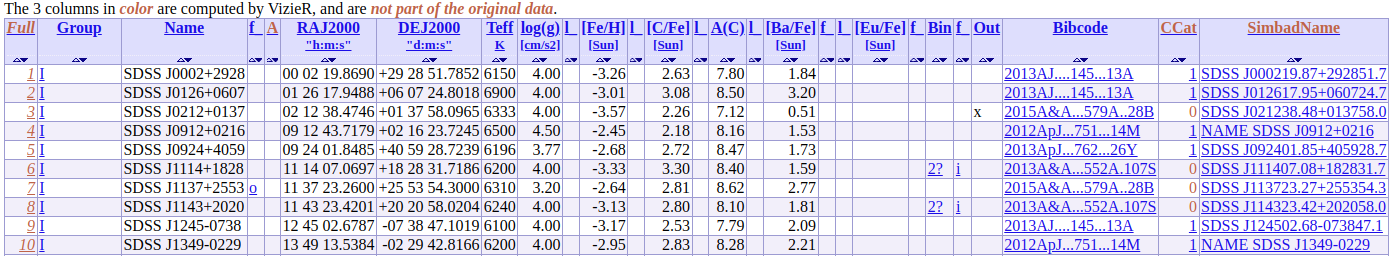
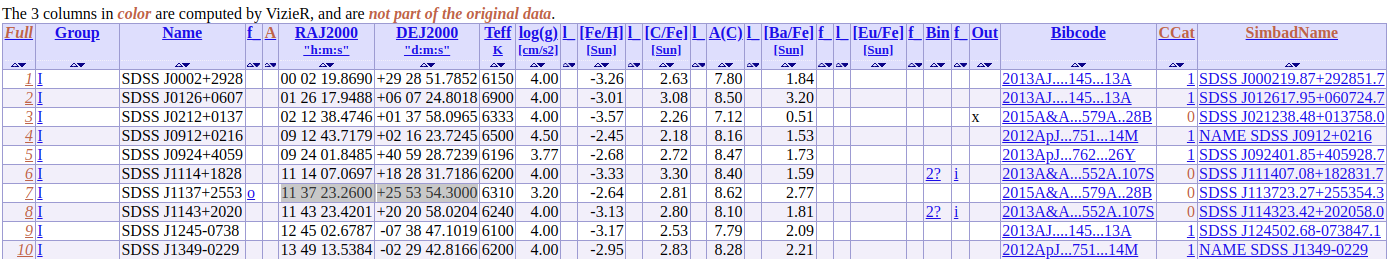
Highlight misprints in coordinates

diff --git a/episodes/section_data_curation.md b/episodes/section_data_curation.md
@@ -133,7 +133,7 @@ Here is an example of truncated SDSS names... Impossible to retrieve except by c
 
 <!-- Link to VizieR: J/ApJ/833/20  // https://vizier.cds.unistra.fr/viz-bin/VizieR?-source=J/ApJ/833/20 // table 1 -->
 
-So the SimbadName has been added after the process for SIMBAD where misprints on coordinates have been detected (identified by the column *f_Name* set to *o* below, for example for *Name = SDSS J1137+2553*). 
+So the SimbadName has been added after the process for SIMBAD where misprints on coordinates have been detected (identified by the column *f_Name* set to *o* below for *Name = SDSS J1137+2553*, and highlighted in both figures Before/After). 
 For this object with coordinates pointing to nothing, the right ones have been found thanks to the bibcode given in the table.
 
 ![Figure: After -- Example of names recognized by SIMBAD added to the original table submitted to VizieR (screenshot)](https://raw.githubusercontent.com/cds-astro/a-FAIR-journey-for-astronomical-data/main/episodes/images/data_curation_examples/example_3_names_after.png){alt="Screenshot -- VizieR table with SIMBAD-names added and misprint on names (in the declinaison) corrected"}

diff --git a/episodes/section_submit_data.md b/episodes/section_submit_data.md
@@ -44,12 +44,14 @@ If your article does not contain any tables, you can skip the following!
 
 
 <!--
+
 | Journal		| Submitting to VizieR | When | Table format | Associated data |
 | ----			| :--: | -- | -- | --- | 
 | ApJ, ApJS, ApJL, AJ	|  No (harvested by VizieR) 	| | | |
 | A&A, A&AS		|  Yes	| | | |
 | MNRAS 		|  Yes	| | | |
 | Other journal 	|  Yes	| | | |
+
 -->
 
 
